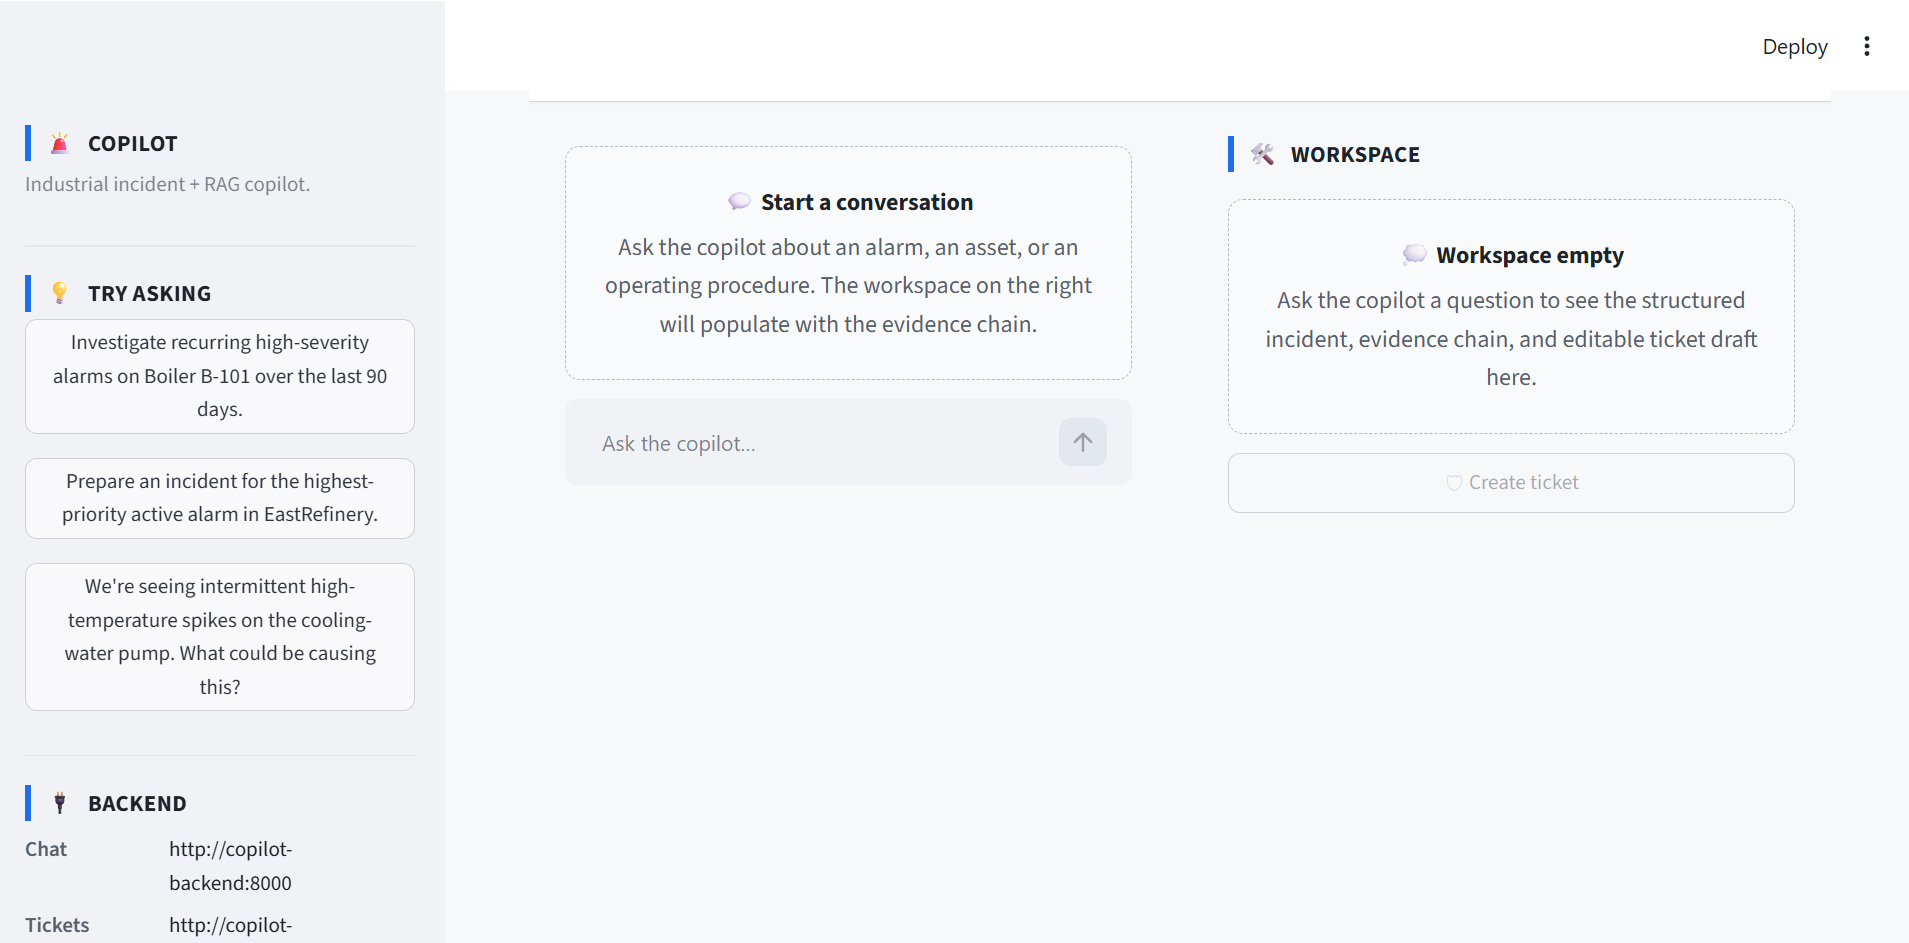
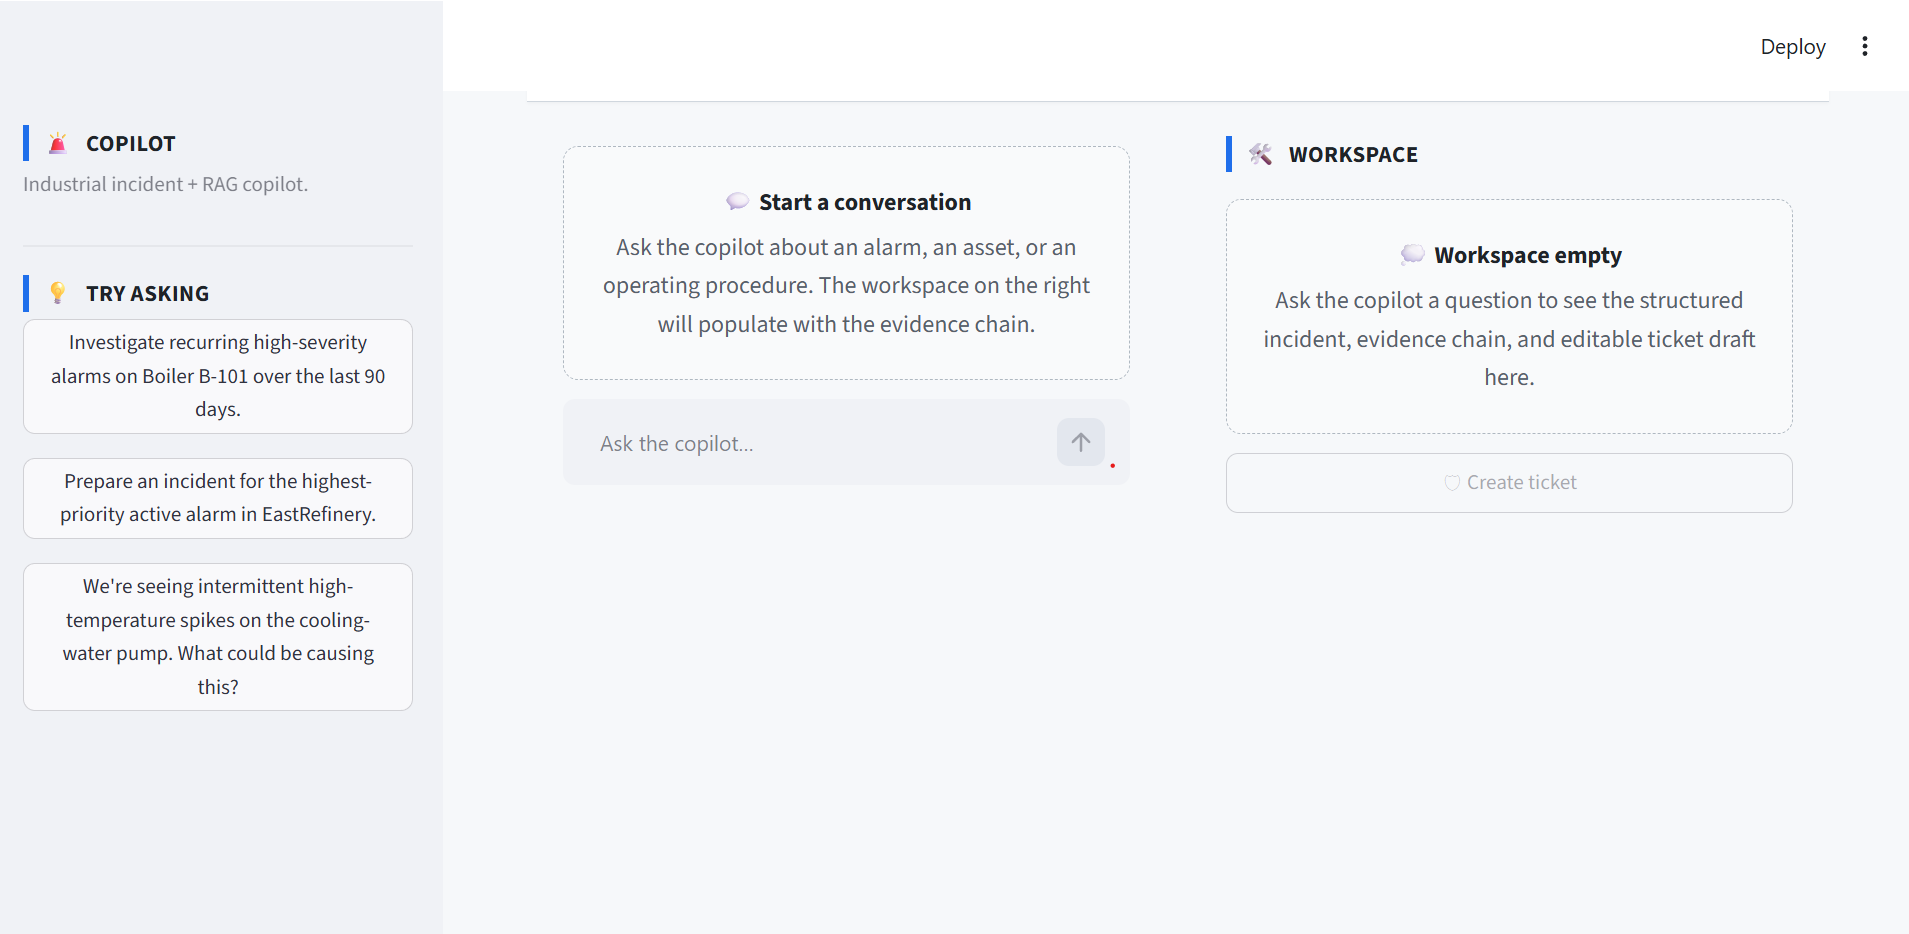
feat(ui): update sidebar description and remove backend section feat(docs): update empty state screenshot and add high-level architecture screenshot

diff --git a/apps/frontend/ui.py b/apps/frontend/ui.py
@@ -361,7 +361,7 @@ def _latest_assistant_message(messages: list[dict[str, Any]]) -> dict[str, Any] 
 
 
 def render_sidebar() -> None:
-    """Left-rail sidebar with example prompts + config readout."""
+    """Left-rail sidebar with the copilot brand block + example prompts."""
     with st.sidebar:
         st.markdown(render_section("Copilot", icon="🚨"), unsafe_allow_html=True)
         st.caption("Industrial incident + RAG copilot.")
@@ -380,20 +380,6 @@ def render_sidebar() -> None:
                 )
                 st.session_state[_SESSION_PENDING] = True
                 st.rerun()
-
-        st.markdown("<div class='divider'></div>", unsafe_allow_html=True)
-
-        client = get_client()
-        st.markdown(render_section("Backend", icon="🔌"), unsafe_allow_html=True)
-        st.markdown(
-            render_kv("Chat", client.base_url),
-            unsafe_allow_html=True,
-        )
-        ticket_client = get_ticket_client()
-        st.markdown(
-            render_kv("Tickets", ticket_client.base_url),
-            unsafe_allow_html=True,
-        )
 
 
 # --------------------------------------------------------------------------- #
